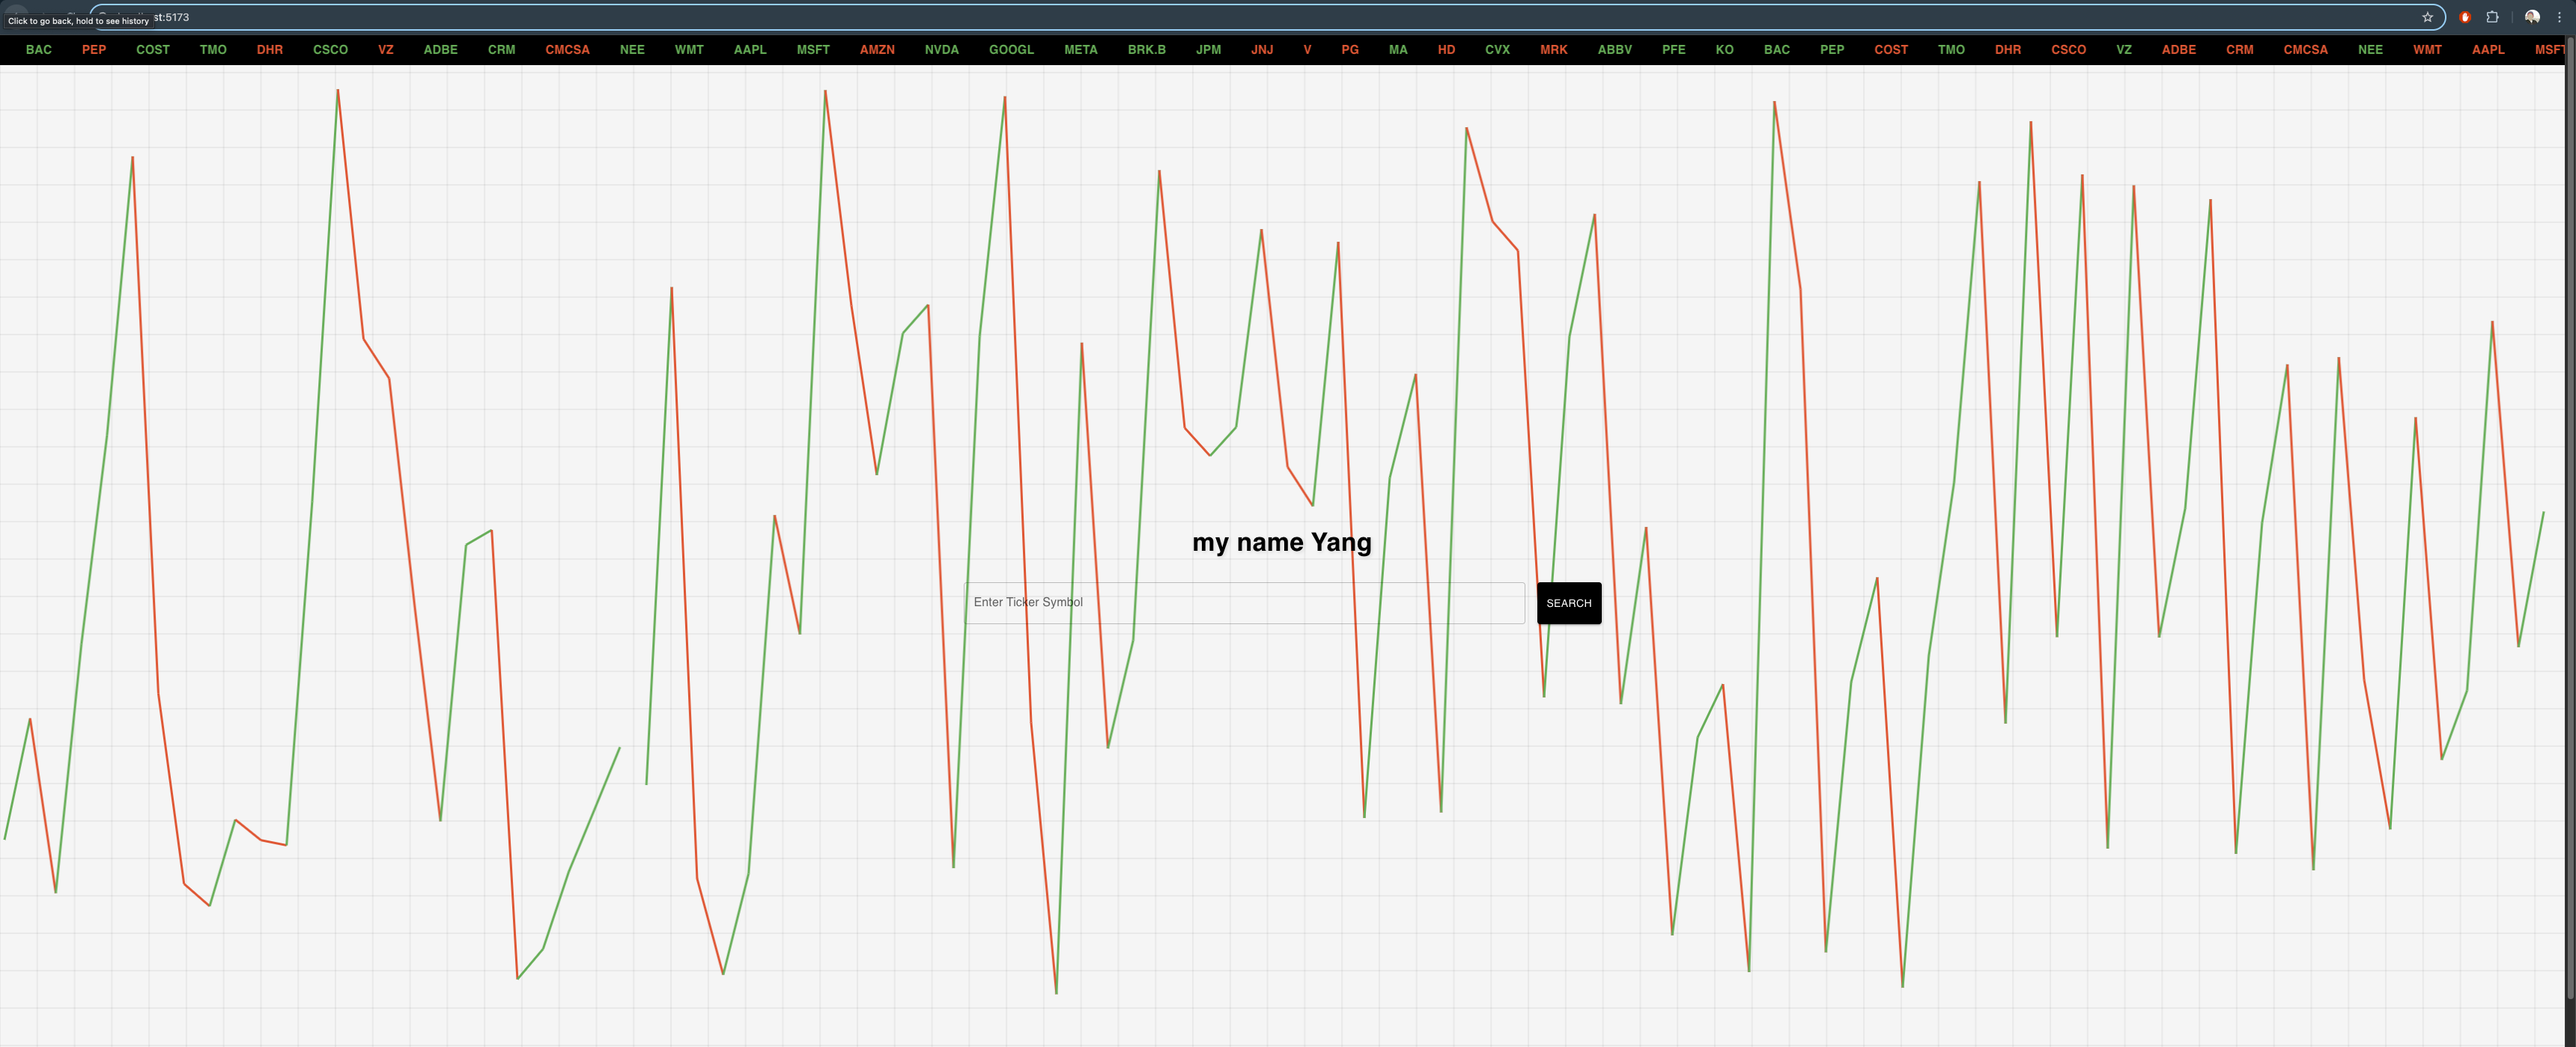
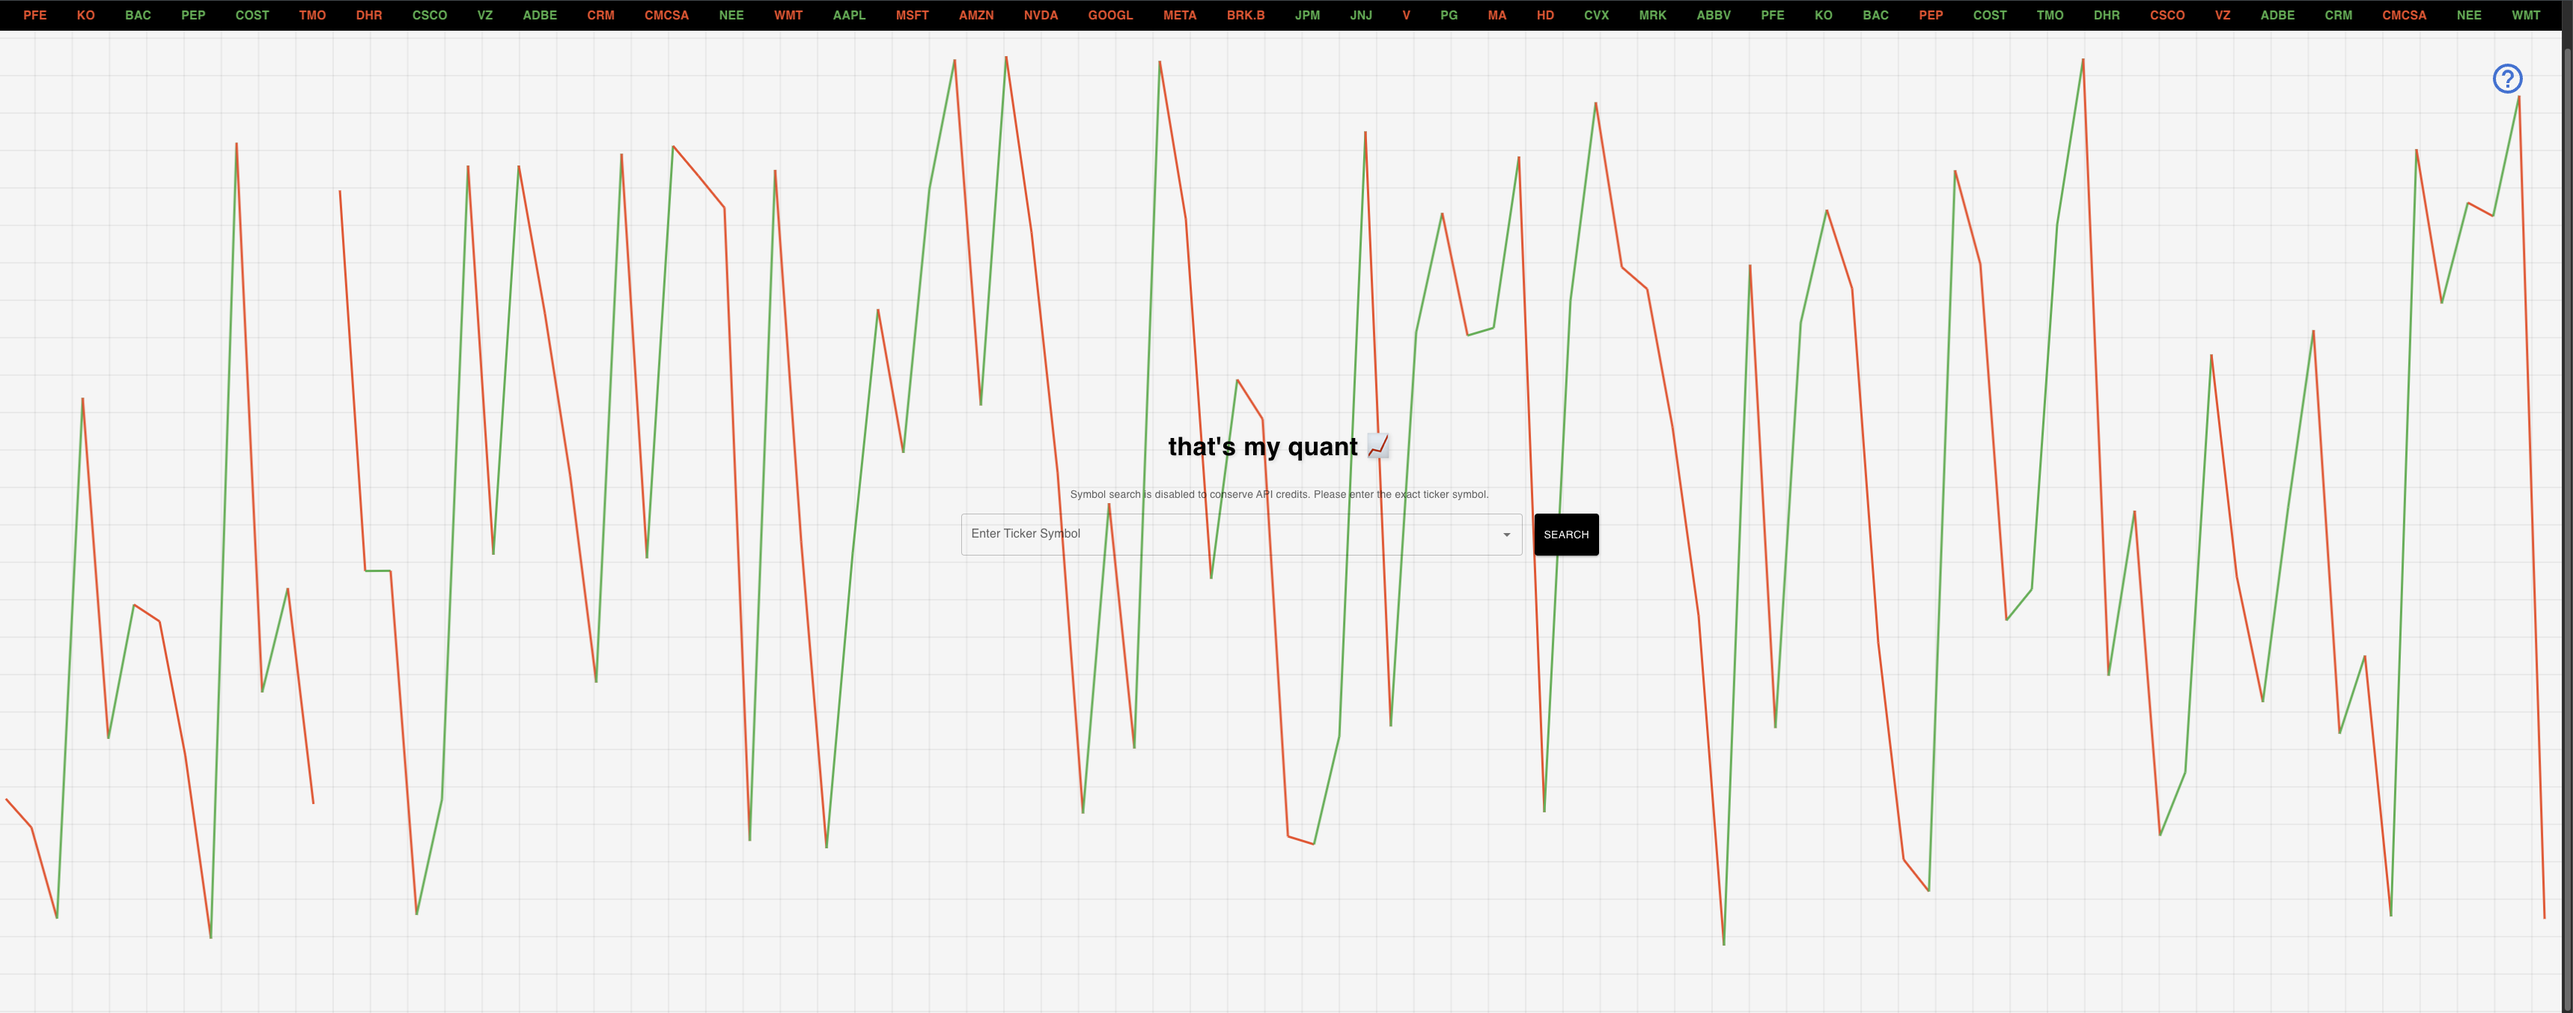
[Update] scoring system using LLM

diff --git a/stock-tracker/src/components/StockScore.tsx b/stock-tracker/src/components/StockScore.tsx
@@ -1,0 +1,232 @@
+import { useState, useEffect, useRef } from 'react';
+import { Box, Typography, CircularProgress, Collapse, IconButton, Dialog, DialogTitle, DialogContent, DialogActions, Button } from '@mui/material';
+import ExpandMoreIcon from '@mui/icons-material/ExpandMore';
+import ExpandLessIcon from '@mui/icons-material/ExpandLess';
+import OpenAI from "openai";
+import type { StockData, FinancialStatement } from '../types';
+
+
+interface StockScoreProps {
+  stockData: StockData;
+  incomeStatement: FinancialStatement[];
+  balanceSheet: FinancialStatement[];
+  cashFlow: FinancialStatement[];
+}
+
+interface ScoreResponse {
+  score: number;
+  explanation: string;
+  breakdown?: {
+    valuation: number;
+    profitability: number;
+    growth: number;
+    stability: number;
+    financialHealth: number;
+    competitivePosition: number;
+  };
+  competitiveAnalysis?: string;
+  missingInfo?: string[];
+  strengths?: string[];
+  weaknesses?: string[];
+}
+
+export const StockScore: React.FC<StockScoreProps> = ({ stockData, incomeStatement, balanceSheet, cashFlow }) => {
+  const [score, setScore] = useState<number | null>(null);
+  const [explanation, setExplanation] = useState<string>('');
+  const [loading, setLoading] = useState<boolean>(false);
+  const [error, setError] = useState<string>('');
+  const [scoreBreakdown, setScoreBreakdown] = useState<ScoreResponse['breakdown']>();
+  const [competitiveAnalysis, setCompetitiveAnalysis] = useState<string>('');
+  const [missingInfo, setMissingInfo] = useState<string[]>([]);
+  const [strengths, setStrengths] = useState<string[]>([]);
+  const [weaknesses, setWeaknesses] = useState<string[]>([]);
+  const [expanded, setExpanded] = useState(false);
+  const [dialogOpen, setDialogOpen] = useState(false);
+  const [analysisData, setAnalysisData] = useState<any>(null);
+  const calledRef = useRef(false);
+
+  useEffect(() => {
+    if (calledRef.current) return;
+    calledRef.current = true;
+    const calculateScore = async () => {
+      setLoading(true);
+      setError('');
+
+      try {
+        // Get the most recent and previous year's data
+        const currentYear = incomeStatement[0];
+        const previousYear = incomeStatement[1];
+        const currentBalanceSheet = balanceSheet[0];
+        const currentCashFlow = cashFlow[0];
+
+        // Calculate derived values
+        const revenueCurrent = Number(currentYear?.totalRevenue) || 0;
+        const revenuePrevious = Number(previousYear?.totalRevenue) || 0;
+        const totalAssets = Number(currentBalanceSheet?.totalAssets) || 0;
+        const totalLiabilities = Number(currentBalanceSheet?.totalLiabilities) || 0;
+        const operatingCashFlow = Number(currentCashFlow?.operatingCashflow) || 0;
+        const capitalExpenditures = Number(currentCashFlow?.capitalExpenditures) || 0;
+        const freeCashFlow = currentCashFlow?.freeCashFlow 
+          ? Number(currentCashFlow.freeCashFlow) 
+          : operatingCashFlow - capitalExpenditures;
+
+        const analysisData = {
+          symbol: stockData.symbol,
+          companyName: stockData.profile?.name || '',
+          price: stockData.price,
+          marketCap: stockData.fundamentals?.marketCap || 0,
+          peRatio: stockData.fundamentals?.peRatio || 0,
+          eps: stockData.fundamentals?.eps || 0,
+          dividendYield: stockData.fundamentals?.dividendYield || 0,
+          ebitda: stockData.fundamentals?.ebitda || 0,
+          profitMargin: stockData.fundamentals?.profitMargin || 0,
+          revenueCurrent,
+          revenuePrevious,
+          totalAssets,
+          totalLiabilities,
+          operatingCashFlow,
+          capitalExpenditures,
+          freeCashFlow,
+          fiscalDate: currentYear?.fiscalDateEnding || '',
+          sector: stockData.profile?.sector || '',
+          industry: stockData.profile?.industry || '',
+          beta: stockData.fundamentals?.beta || 0,
+          "52WeekHigh": stockData.fundamentals?.fiftyTwoWeekHigh || 0,
+          "52WeekLow": stockData.fundamentals?.fiftyTwoWeekLow || 0,
+          evRevenue: stockData.fundamentals?.evToRevenue || 0,
+          analystTargetPrice: stockData.fundamentals?.analystTargetPrice || 0
+        };
+
+        const client = new OpenAI({
+          apiKey: import.meta.env.VITE_OPENAI_API_KEY,
+          dangerouslyAllowBrowser: true
+        });
+
+        const response = await client.responses.create({
+          model: "gpt-4.1-mini",
+          input: [
+            {
+              "role": "system",
+              "content": [
+                {
+                  "type": "input_text",
+                  "text": "You are a financial analyst evaluating a stock based on fundamentals, profitability, growth, stability, and competitive advantage. \nGenerate a comprehensive score out of 10 based on the provided financial metrics.\n\nEvaluate the stock using the following scoring rubric:\n\n1. Valuation (Cheap) - 2 points\n    - P/E Ratio (1 point): Lower P/E gets higher score, with 20 or below = 1 point, 40 or above = 0 points\n    - EBITDA to Market Cap (1 point): Higher EBITDA relative to Market Cap gets a higher score\n\n2. Profitability - 2 points\n    - Profit Margin (0.8 points): Higher margins get higher scores, with 30% or above = 0.8 points\n    - Dividend Yield (0.6 points): Higher yields get higher scores, with 4% or above = 0.6 points\n    - EPS Growth (0.6 points): Higher growth gets higher scores, with 10% or above = 0.6 points\n\n3. Growth - 2 points\n    - Revenue Growth (1 point): Higher growth gets higher scores, with 10% or above = 1 point\n    - Operating Cash Flow Growth (1 point): Higher growth gets higher scores, with 10% or above = 1 point\n\n4. Stability - 2 points\n    - Market Cap (0.8 points): Larger market cap gets higher scores, with logarithmic scaling\n    - Beta (0.4 points): Scores highest when close to 1, lower for highly volatile or defensive stocks\n    - Brand & Leadership (0.8 points): Based on qualitative assessment of brand strength and leadership\n\n5. Financial Health - 2 points\n    - Assets to Liabilities Ratio (0.7 points): Higher ratio gets higher scores, with 1.2 or above = 0.7 points\n    - Operating Income to Revenue (0.7 points): Higher ratio gets higher scores, with 20% or above = 0.7 points\n    - Free Cash Flow to Revenue (0.6 points): Higher ratio gets higher scores, with 20% or above = 0.6 points\n\n6. Competitive Position - 2 points (derived from industry and sector information)\n    - Market Position (0.7 points): Based on the company's position in its industry\n    - Competitive Moat (0.7 points): Based on the company's competitive advantages\n    - Industry Growth Prospects (0.6 points): Based on industry growth outlook\n\nFor the Competitive Position category, please analyze the industry and sector information to:\n1. Identify the likely major competitors in this industry\n2. Determine potential competitive advantages (moat) based on the company's financials and industry\n3. Assess the company's market position relative to competitors\n4. Evaluate industry growth prospects\n\nPlease provide:\n1. A detailed breakdown of scores for each category\n2. A brief analysis of the company's competitive position and moat\n3. A list of any missing information that would improve the analysis\n4. Key strengths and weaknesses based on the scoring\n5. The total score out of 10 should be the last line of the response in the format {Score:X}\n\nThe user will provide the JSON"
+                }
+              ]
+            },
+            {
+              "role": "user",
+              "content": [
+                {
+                  "type": "input_text",
+                  "text": JSON.stringify(analysisData)
+                }
+              ]
+            }
+          ],
+          text: {
+            "format": {
+              "type": "json_object"
+            }
+          },
+          reasoning: {},
+          tools: [],
+          temperature: 1,
+          max_output_tokens: 2048,
+          top_p: 1,
+          store: true
+        });
+
+        console.log('Raw API Response:', response);
+        
+        const analysis = JSON.parse(response.output_text);
+        console.log('Parsed Analysis:', analysis);
+
+        // Extract the final score from the Total Score field
+        const finalScore = analysis["Total Score"] || analysis.Score || analysis.score;
+        setScore(finalScore);
+        setExplanation(analysis["Competitive Position Analysis"] || analysis.explanation || '');
+        setScoreBreakdown(
+          analysis.breakdown || {
+            valuation: analysis.Valuation?.["Total Valuation Score"] ?? analysis.valuation ?? 0,
+            profitability: analysis.Profitability?.["Total Profitability Score"] ?? analysis.profitability ?? 0,
+            growth: analysis.Growth?.["Total Growth Score"] ?? analysis.growth ?? 0,
+            stability: analysis.Stability?.["Total Stability Score"] ?? analysis.stability ?? 0,
+            financialHealth: analysis["Financial Health"]?.["Total Financial Health Score"] ?? analysis.financialHealth ?? 0,
+            competitivePosition: analysis["Competitive Position"]?.["Total Competitive Position Score"] ?? analysis.competitivePosition ?? 0
+          }
+        );
+        setCompetitiveAnalysis(analysis["Competitive Position Analysis"] || analysis.competitiveAnalysis || '');
+        setMissingInfo(analysis["Missing Information"] || analysis.missingInfo || []);
+        setStrengths(analysis["Key Strengths"] || analysis.strengths || []);
+        setWeaknesses(analysis["Key Weaknesses"] || analysis.weaknesses || []);
+        setAnalysisData(analysis);
+      } catch (err) {
+        setError('Failed to calculate stock score. Please try again.');
+        console.error('Error calculating stock score:', err);
+      } finally {
+        setLoading(false);
+      }
+    };
+
+    if (stockData) {
+      calculateScore();
+    }
+  }, [stockData]);
+
+  if (loading) {
+    return (
+      <Box display="flex" justifyContent="center" alignItems="center" p={1}>
+        <CircularProgress size={24} />
+      </Box>
+    );
+  }
+
+  if (error) {
+    return (
+      <Typography color="error" align="center" variant="body2">
+        {error}
+      </Typography>
+    );
+  }
+
+  if (!score) {
+    return null;
+  }
+
+  return (
+    <Box sx={{ position: 'relative' }}>
+      <Box sx={{ display: 'flex', alignItems: 'center', gap: 1 }}>
+        <Typography 
+          variant="h6" 
+          component="div" 
+          onClick={() => setDialogOpen(true)}
+          sx={{ cursor: 'pointer', '&:hover': { opacity: 0.8 } }}
+        >
+          {score.toFixed(1)}
+        </Typography>
+      </Box>
+
+      <Dialog 
+        open={dialogOpen} 
+        onClose={() => setDialogOpen(false)}
+        maxWidth="md"
+        fullWidth
+      >
+        <DialogTitle>Stock Analysis Details (Raw JSON)</DialogTitle>
+        <DialogContent>
+          <Box sx={{ mt: 2 }}>
+            {analysisData && (
+              <pre style={{ fontSize: 14, background: '#f5f5f5', padding: 16, borderRadius: 8, overflowX: 'auto' }}>
+                {JSON.stringify(analysisData, null, 2)}
+              </pre>
+            )}
+          </Box>
+        </DialogContent>
+        <DialogActions>
+          <Button onClick={() => setDialogOpen(false)}>Close</Button>
+        </DialogActions>
+      </Dialog>
+    </Box>
+  );
+}; 

diff --git a/stock-tracker/src/components/StockInfo.tsx b/stock-tracker/src/components/StockInfo.tsx
@@ -2,6 +2,7 @@ import { Box, Typography, Paper, Table, TableContainer, TableHead, TableBody, Ta
 import { PieChart, Pie, Cell, ResponsiveContainer, Tooltip } from 'recharts';
 import type { StockData, FinancialStatement } from '../types';
 import { AnalystRatingsGraph } from './AnalystRatingsGraph';
+import { StockScore } from './StockScore';
 
 interface StockInfoProps {
   stockData: StockData;
@@ -44,7 +45,12 @@ export const StockInfo = ({ stockData, incomeStatement, balanceSheet, cashFlow }
                 fontSize: 32,
                 color: '#333',
               }}>
-                0
+                <StockScore 
+                  stockData={stockData} 
+                  incomeStatement={incomeStatement}
+                  balanceSheet={balanceSheet}
+                  cashFlow={cashFlow}
+                />
               </Box>
             </Box>
             <Typography

diff --git a/stock-tracker/src/App.tsx b/stock-tracker/src/App.tsx
@@ -69,7 +69,7 @@ function App() {
               mb: 4
             }}
           >
-            my name Yang
+            that's my quant 📈
           </Typography>
           
           <StockSearch onSearch={handleSearch} loading={loading} />

diff --git a/README.md b/README.md
@@ -21,6 +21,19 @@ These notebooks provide the analytical foundation for the project, handling data
 The stock tracker application provides a sleek, real-time interface for monitoring market data:
 
 Key features visible in the interface:
+- Real-time stock scoring and analysis
+- Detailed financial metrics and ratios
+- Technical indicators and price trends
+- Market sentiment analysis
+- Competitive position evaluation
+
+![GOOGL Example](./assets/googl_example.png)
+
+Key features visible in the interface:
+- Advanced stock scoring AI system (0-10 scale)
+- Comprehensive financial analysis
+- Real-time price and volume data
+
 - Company profiles and fundamentals
 - Earnings calendar and financial metrics
 
